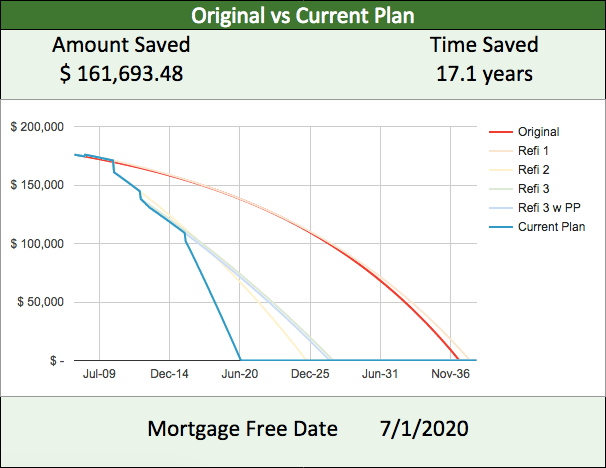
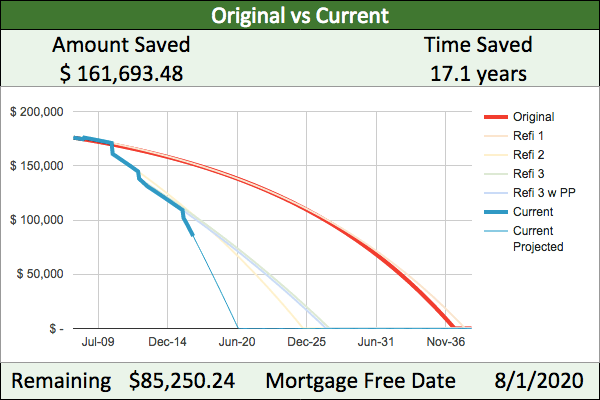
nothing new year month one update post

diff --git a/_posts/2017-02-06-nothing-new-year-month-one.md b/_posts/2017-02-06-nothing-new-year-month-one.md
@@ -1,0 +1,98 @@
+---
+layout: post
+
+author: keepthrifty
+author_email: chris@keepthrifty.com
+
+title: "Nothing New Year: Month 1 Update"
+description: "We're one month in to our nothing new year. How did we do and where are we at on our mortgage? Read on to find out!"
+
+image: /img/posts/2017-02-06-nothing-new-year-month-one/shopping-cart.jpg
+
+related-posts: [
+  "/2017/01/02/happy-nothing-new-year",
+  "/2016/03/28/april-challenge-grocery",
+  "/2016/05/01/may-challenge-food",
+  "/2016/06/05/prepay-vs-invest"
+]
+
+tags: [how we money]
+
+---
+
+We kicked off this year with a goal to [buy nothing new]({% post_url 2017-01-02-happy-nothing-new-year %}). Time flies when you're having fun - January is _already_ over so it's time to give our first monthly update on how we're doing in our Nothing New Year Challenge for 2017.
+
+By buying nothing new, we hope to reduce our impact on our bank accounts _and_ the environment. Let's start with an overview of our spending for this month.
+
+## Spending Overview
+
+Here's a snapshot of our spending summary from [Thrifty](http://thrifty.keepthrifty.com):
+
+![Overall spending $3,516.06]({{site.url}}/img/posts/2017-02-06-nothing-new-year-month-one/nny-month-one-spending.png)
+
+Managing our spending this month was a success - we spent _$750 less than we did in January 2016_! Despite some non-regular expenses (tax filing, life insurance), we still ended up with our __second-lowest month__ in the [18 months we've been tracking our spending]({% post_url 2016-08-20-indecent-financial-exposure %})!
+
+That's not to say there's not room for improvement though. By category, here's our breakdown:
+
+|----+-------+---------------|
+| Category | Amount  | Notes |
+|:----:+------:+---------------|
+| Charity  | $605.00 | We bumped up our monthly amount this year to $600 and also gave $5 to support a local youth group |
+| Eating Out | $352.23 | This number is significantly higher than we'd normally like. I bought lunch at work 9 days this month - my goal in any month is zero. We also bought lunch or dinner as carry-out 12 times versus our goal this month of five. Definitely an area to work on! |
+| Gifts | $49.67 | We celebrated my wife's birthday by going bowling as a family, which was most of this. In addition, our daughter bought some art supplies for a classmate's birthday party and we purchased candy in prep for the kids' Valentine's day parties |
+| Groceries | $796.60 | We're definitely working this down - we spent over $1000 in January last year for groceries. We've been buying a lot more from the bulk bins and making recipes from scratch. |
+| Healthcare | $245.01 | Healthcare premiums, children's ibuprofen (we had kids with fevers over 103 twice this month), and vitamin D. It's tough to get vitamin D from sun exposure when it's January in Wisconsin. We also had a near-record breaking streak of 12 days of full clouds this month. |
+| Hobbies | $259.27 | Gymnastics fees are most of this. The only other things we bought were a couple coloring books and new colored pencils for the kids. We have a __lot__ of coloring in this house :) |
+| Home Updates | $58.39 | Door hinges, outlets, light switches (and panels), and painters tape. We're still chipping away on remodeling and hit a big milestone this month - all our doors have now been painted and re-hung! |
+| Household Care | $196.08 | The regulars: pull-ups, toilet paper, wipes, dish soap, vinegar, shampoo, deodorant, laundry soap, facial soap, washing soda. Only one major outlier this month - $60 on carbon monoxide detectors. Our old ones were expired and needed to be replaced |
+| Other | $21.00 | Hosting fees and source code storage for [Thrifty](http://thrifty.keepthrifty.com) |
+| Services | $219.88 | In most months, this is just life insurance through my work, but this month we also paid to file our taxes and for my wife's life insurance policy for the full year (not through my work) |
+| Shelter | $199.72 | The only expense in here is for our mortgage interest. We don't log our principal payments as an expense since we consider them to be net-worth-building payments |
+| Transportation | $163.04 | This isn't too shabby for a family of five [surviving on one car in the suburbs]({% post_url 2017-01-16-one-car-suburbs %}). We had to fill up our minivan four times this month and pay $2 for parking when we brought one of our daughters in for an after-hours doctor visit. |
+| Utilities | $350.17 | Gas, electric, internet, water, and sewer service. |
+|-------+----------+----|
+| __Total__ | __$3,516.06__ |    |
+|-------+----------+----|
+
+Financially, we did well this month. But the real question is, _did we buy anything new?_
+
+## Did We Buy Anything New?
+
+When we kicked off the year, we defined our boundaries.
+
+_Used, refurbished, reclaimed, are all fair game, but “new” is to be avoided wherever possible._
+
+_Food and household consumable items (baking soda & vinegar for cleaning, soap, art supplies, etc.) are allowed new for obvious reasons._
+
+_Other than this, we only have a short list of exceptions we allow:_
+
+- _Underwear_
+- _Socks and shoes_
+- _Photo prints (school pictures and for our road trip map)_
+- _Stainless steel baking sheet (though we’ll look for used options if we can find them)_
+- _Car maintenance parts (we know we need new tires next year)_
+- _Home remodeling_
+
+Looking through the list above, I feel like we've stayed true to our definition of _"nothing new"_ in every purchase with one in the gray zone: the carbon monoxide detectors.
+
+If this was one I had anticipated at the beginning of the year, I would have included it in our exception list. I even went to the point of looking to see if used carbon monoxide detectors were even a thing, but expectedly these items fall on the same "don't buy used" list as baby car seats.
+
+Given the safety aspect for our family, I'm calling this one fair game. Let the nothing new year continue!
+
+## Mortgage Payoff Update
+
+Along with our nothing new year challenge, we're still working hard on paying down our mortgage. Here's the update chart for where we're at after our Feb 1 payment:
+
+![Mortgage payoff progress: outstanding principal is down to $83,345.61 and we're due to pay off by Aug 1, 2020. By prepaying and refinancing, we are saving $161,693.48 and 17.1 years over original mortgage plan.]({{site.url}}/img/mortgage-payoff/Mortgage-Payoff-Feb-2017.png)
+
+<div class="image-caption">Each line represents a different mortgage path we've been on over our mortgage payment journey</div>
+
+Between our standard payment and our additional prepayment this month, __we knocked another $1904 off our outstanding principal__!
+
+We're still on track to pay off our mortgage on August 1, 2020 - 8 months behind our goal. We still plan to [put any of my raises toward our mortgage]({% post_url 2016-01-15-prepaying-mortgage-trick %}) and to prepay with any "extra" money after we meet our core yearly goals each year, so I'm optimistic we'll actually be 100% debt-free before 2020.
+
+## One Down, Eleven to Go
+
+That's one in the books, friends. I think we're off to a good start so far this year but goals are usually easy to maintain when you're first getting started. As we get further in this year, we'll probably find some bigger challenges in sticking to our nothing new year. Hopefully these monthly updates will help keep us accountable and on-track!
+
+_How are you doing on your new year's resolutions so far? Sticking to the plan or have you shifted gears already?_

diff --git a/_posts/2017-01-02-happy-nothing-new-year.md b/_posts/2017-01-02-happy-nothing-new-year.md
@@ -15,7 +15,8 @@ related-posts: [
   "/2016/10/10/become-twice-as-happy-with-half-as-much",
   "/2016/08/28/the-more-of-less-review",
   "/2016/06/13/escape-fashion-trap-part-1",
-  "/2016/01/20/living-with-less"
+  "/2016/01/20/living-with-less",
+  "/2017/02/06/nothing-new-year-month-one"
 ]
 
 tags: [minimalism, nothing new year]
@@ -135,7 +136,7 @@ Since we're at the start, let's set the baseline on where we're at with our mort
 
 The red line shows our outstanding mortgage principal if we had stuck with our original mortgage back in 2007. The blue line shows our actual mortgage principal to-date (as well as projections based on our current prepayments). The faint lines show all the different mortgage paths we've been on based on different refinancing and prepayment strategies.
 
-Based on our aggressive prepayments and taking advantage of refinancing, we're due to save $161,000 and finish 17 years earlier than our original plan! Right now, we're coming in a bit after our 2020 goal with an expected payoff date of July 1, 2020. I haven't built in additional prepayments I think we should be able to make, so hopefully that means we're going to get there before 2020 still :)
+Based on our aggressive prepayments and taking advantage of refinancing, we're due to save $161,000 and finish 17 years earlier than our original plan! Right now, we're coming in a bit after our 2020 goal with an expected payoff date of August 1, 2020. I haven't built in additional prepayments I think we should be able to make, so hopefully that means we're going to get there before 2020 still :)
 
 ## Your Thoughts?
 

diff --git a/_posts/2016-06-05-prepay-vs-invest.md b/_posts/2016-06-05-prepay-vs-invest.md
@@ -13,7 +13,8 @@ related-posts: [
   "/2016/04/04/mortgage-math-101",
   "/2016/04/10/how-we-saved-on-our-mortgage",
   "/2016/08/05/dominate-debt-with-spreadsheet-fu",
-  "/2016/12/12/ultimate-refinancing-spreadsheet-calculator"
+  "/2016/12/12/ultimate-refinancing-spreadsheet-calculator",
+  "/2017/01/30/introducing-retirement-freedom"
 ]
 permalink: /:year/:month/:day/:title.html
 tags: [spreadsheets, mortgages, how we money]

diff --git a/_posts/2016-09-18-the-price-of-an-extra-day.md b/_posts/2016-09-18-the-price-of-an-extra-day.md
@@ -12,7 +12,8 @@ related-posts: [
   "/2016/08/05/dominate-debt-with-spreadsheet-fu",
   "/2016/06/18/the-simple-path-to-wealth-review",
   "/2016/06/05/prepay-vs-invest",
-  "/2016/12/12/ultimate-refinancing-spreadsheet-calculator"
+  "/2016/12/12/ultimate-refinancing-spreadsheet-calculator",
+  "/2017/01/30/introducing-retirement-freedom"
 ]
 redirect_from:
   - /calculators/

diff --git a/_posts/2016-05-01-may-challenge-food.md b/_posts/2016-05-01-may-challenge-food.md
@@ -14,7 +14,8 @@ related-posts: [
   "/2016/02/22/keepthrifty-experiment",
   "/2016/02/28/march-challenge-household-care",
   "/2016/03/28/april-challenge-grocery",
-  "/2016/05/29/june-challenge-entertainment"
+  "/2016/05/29/june-challenge-entertainment",
+  "/2017/02/06/nothing-new-year-month-one"
 ]
 permalink: /:year/:month/:day/:title.html
 tags: [challenge]

diff --git a/_posts/2016-03-28-april-challenge-grocery.md b/_posts/2016-03-28-april-challenge-grocery.md
@@ -15,7 +15,8 @@ related-posts: [
   "/2016/02/22/keepthrifty-experiment",
   "/2016/02/28/march-challenge-household-care",
   "/2016/05/01/may-challenge-food",
-  "/2016/05/29/june-challenge-entertainment"
+  "/2016/05/29/june-challenge-entertainment",
+  "/2017/02/06/nothing-new-year-month-one"
 ]
 permalink: /:year/:month/:day/:title.html
 tags: [challenge]

diff --git a/_posts/2016-12-12-ultimate-refinancing-spreadsheet-calculator.md b/_posts/2016-12-12-ultimate-refinancing-spreadsheet-calculator.md
@@ -13,7 +13,8 @@ related-posts: [
   "/2016/08/05/dominate-debt-with-spreadsheet-fu",
   "/2016/09/18/the-price-of-an-extra-day",
   "/2016/09/25/the-price-of-an-extra-day-spreadsheet-edition",
-  "/2016/04/04/mortgage-math-101"
+  "/2016/04/04/mortgage-math-101",
+  "/2017/01/30/introducing-retirement-freedom"
 ]
 
 tags: [spreadsheets, calculators]
